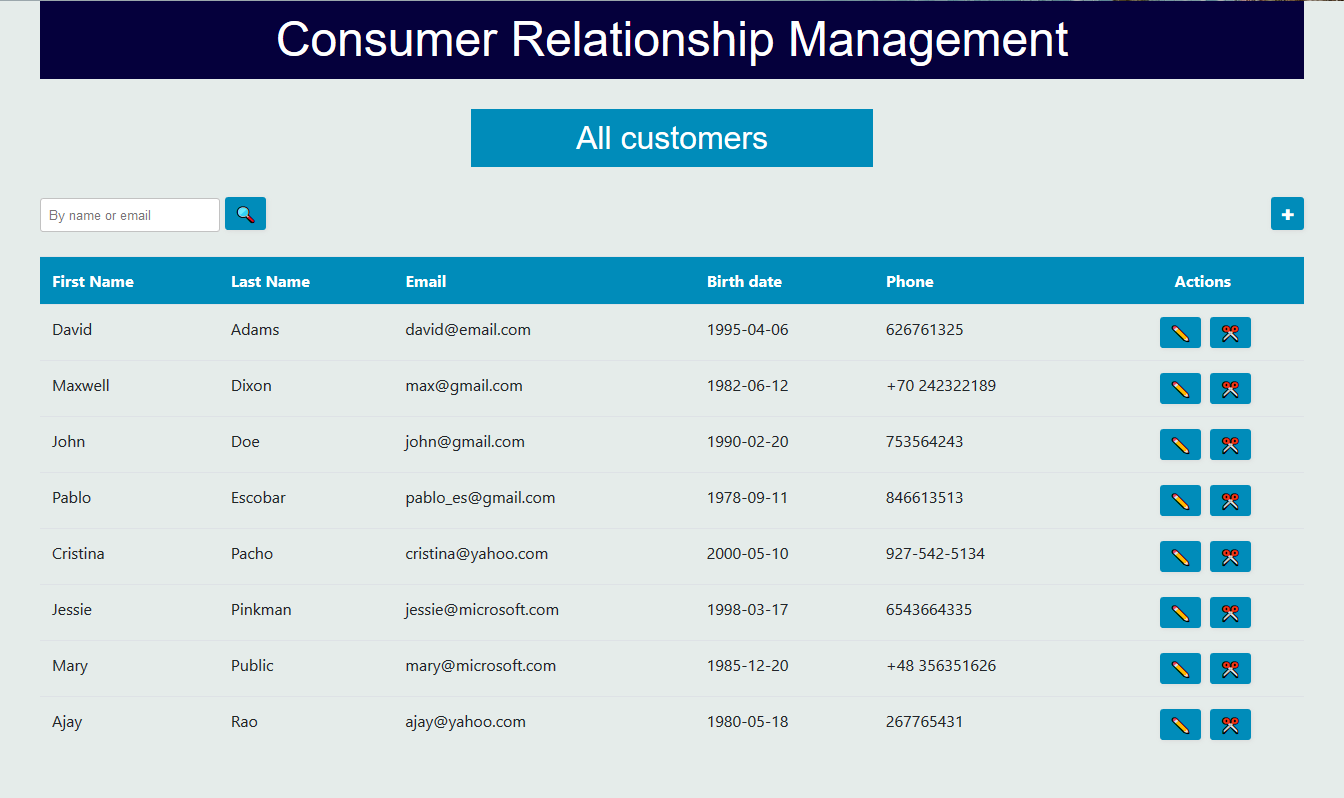
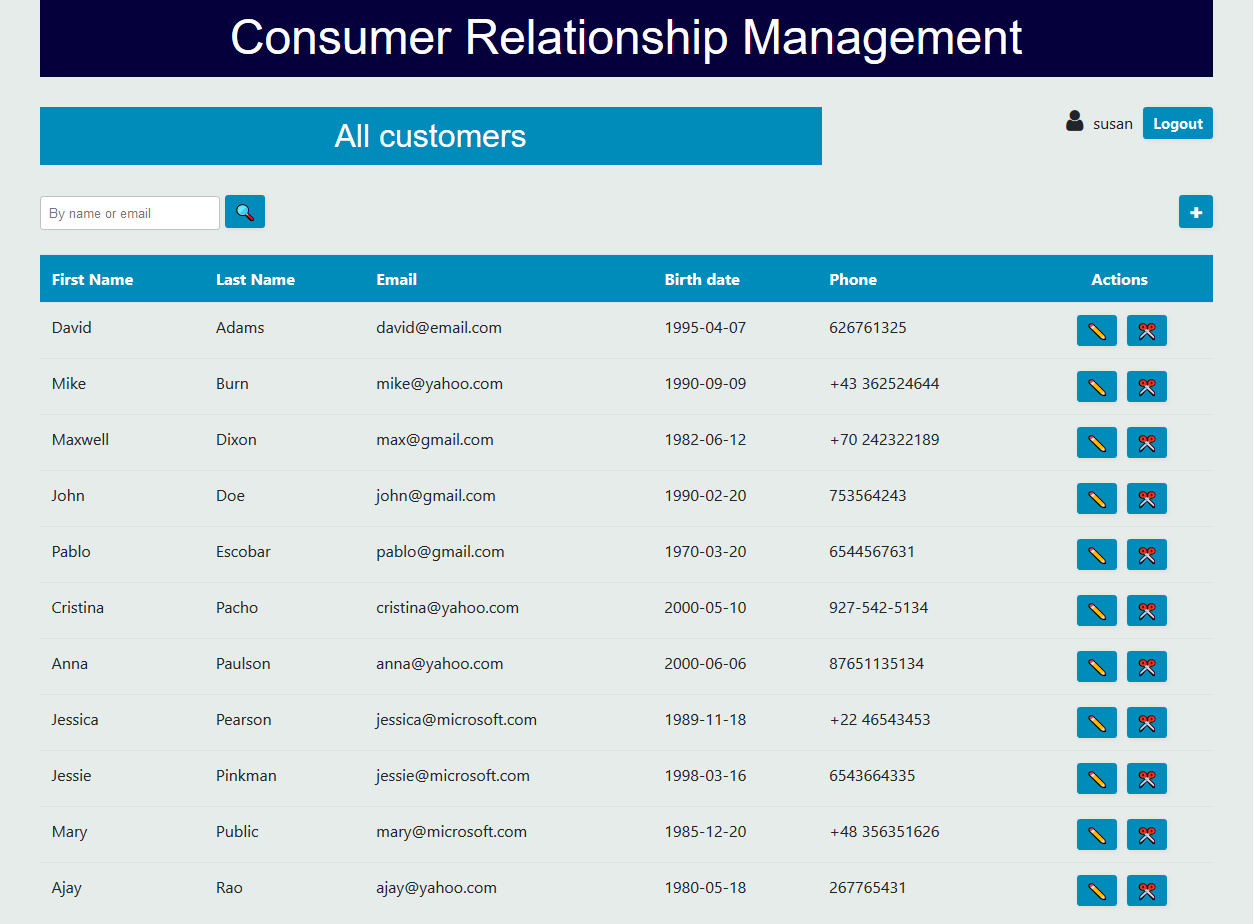
Updated README with new screenshots and description

diff --git a/README.md b/README.md
@@ -1,15 +1,36 @@
 # ConsumerRelationshipManagement
-Fully working simple CRUD app with Spring MVC and Hibernate.
+ Fully working simple CRUD app with Spring, Spring MVC, Spring Security, Spring AOP, Hibernate and PostgreSQL
+
 
 Application allows to list, create, edit and delete customers.
 ## Technologies:
 * Java 10
 * Spring 5
 * Spring MVC
+* Spring Security
+* Spring AOP
 * Hibernate 5
 * PostgreSQL 10
 
+## Users and roles
+* **john**  
+password: 1234  
+roles: employee  
+access: list customers
+* **mary**  
+password: 1234  
+roles: manager, employee  
+access: list customers, add customers, update customers
+* **susan**  
+password: 1234  
+roles: admin, employee  
+access: list customers, add customers, update customers, delete customers
+
+
+
 ## Screenshots
+##### Login
+![Alt text](screenshots/login.png?raw=true "Screenshot - save")
 #### List all customers
 ![Alt text](screenshots/list.png?raw=true "Screenshot - list")
 ##### Save customer
